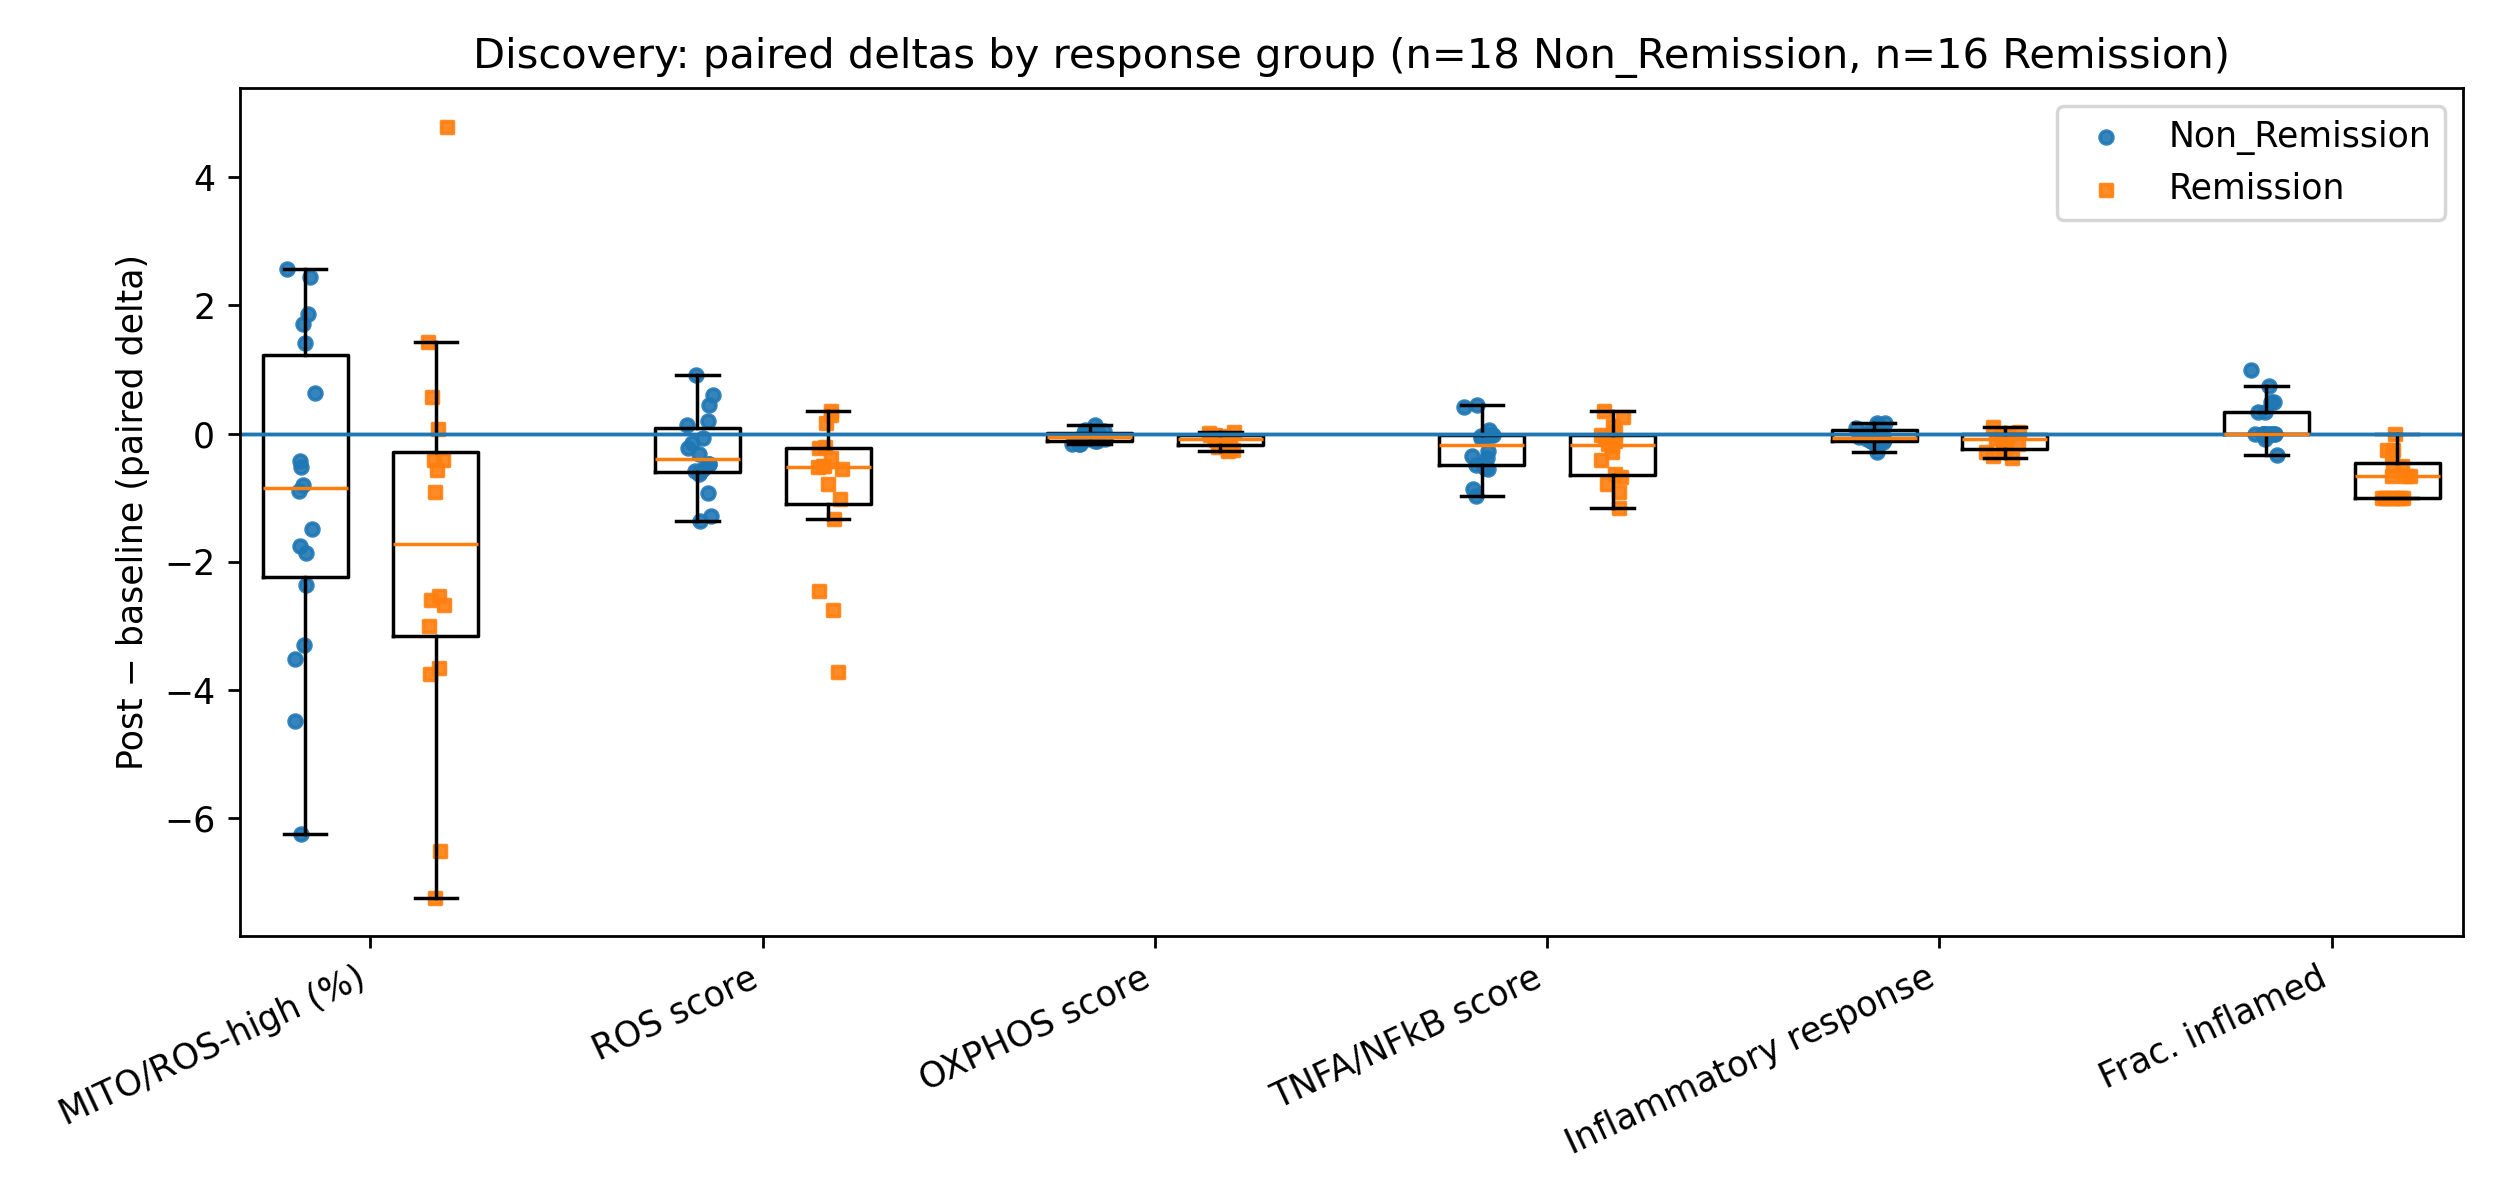
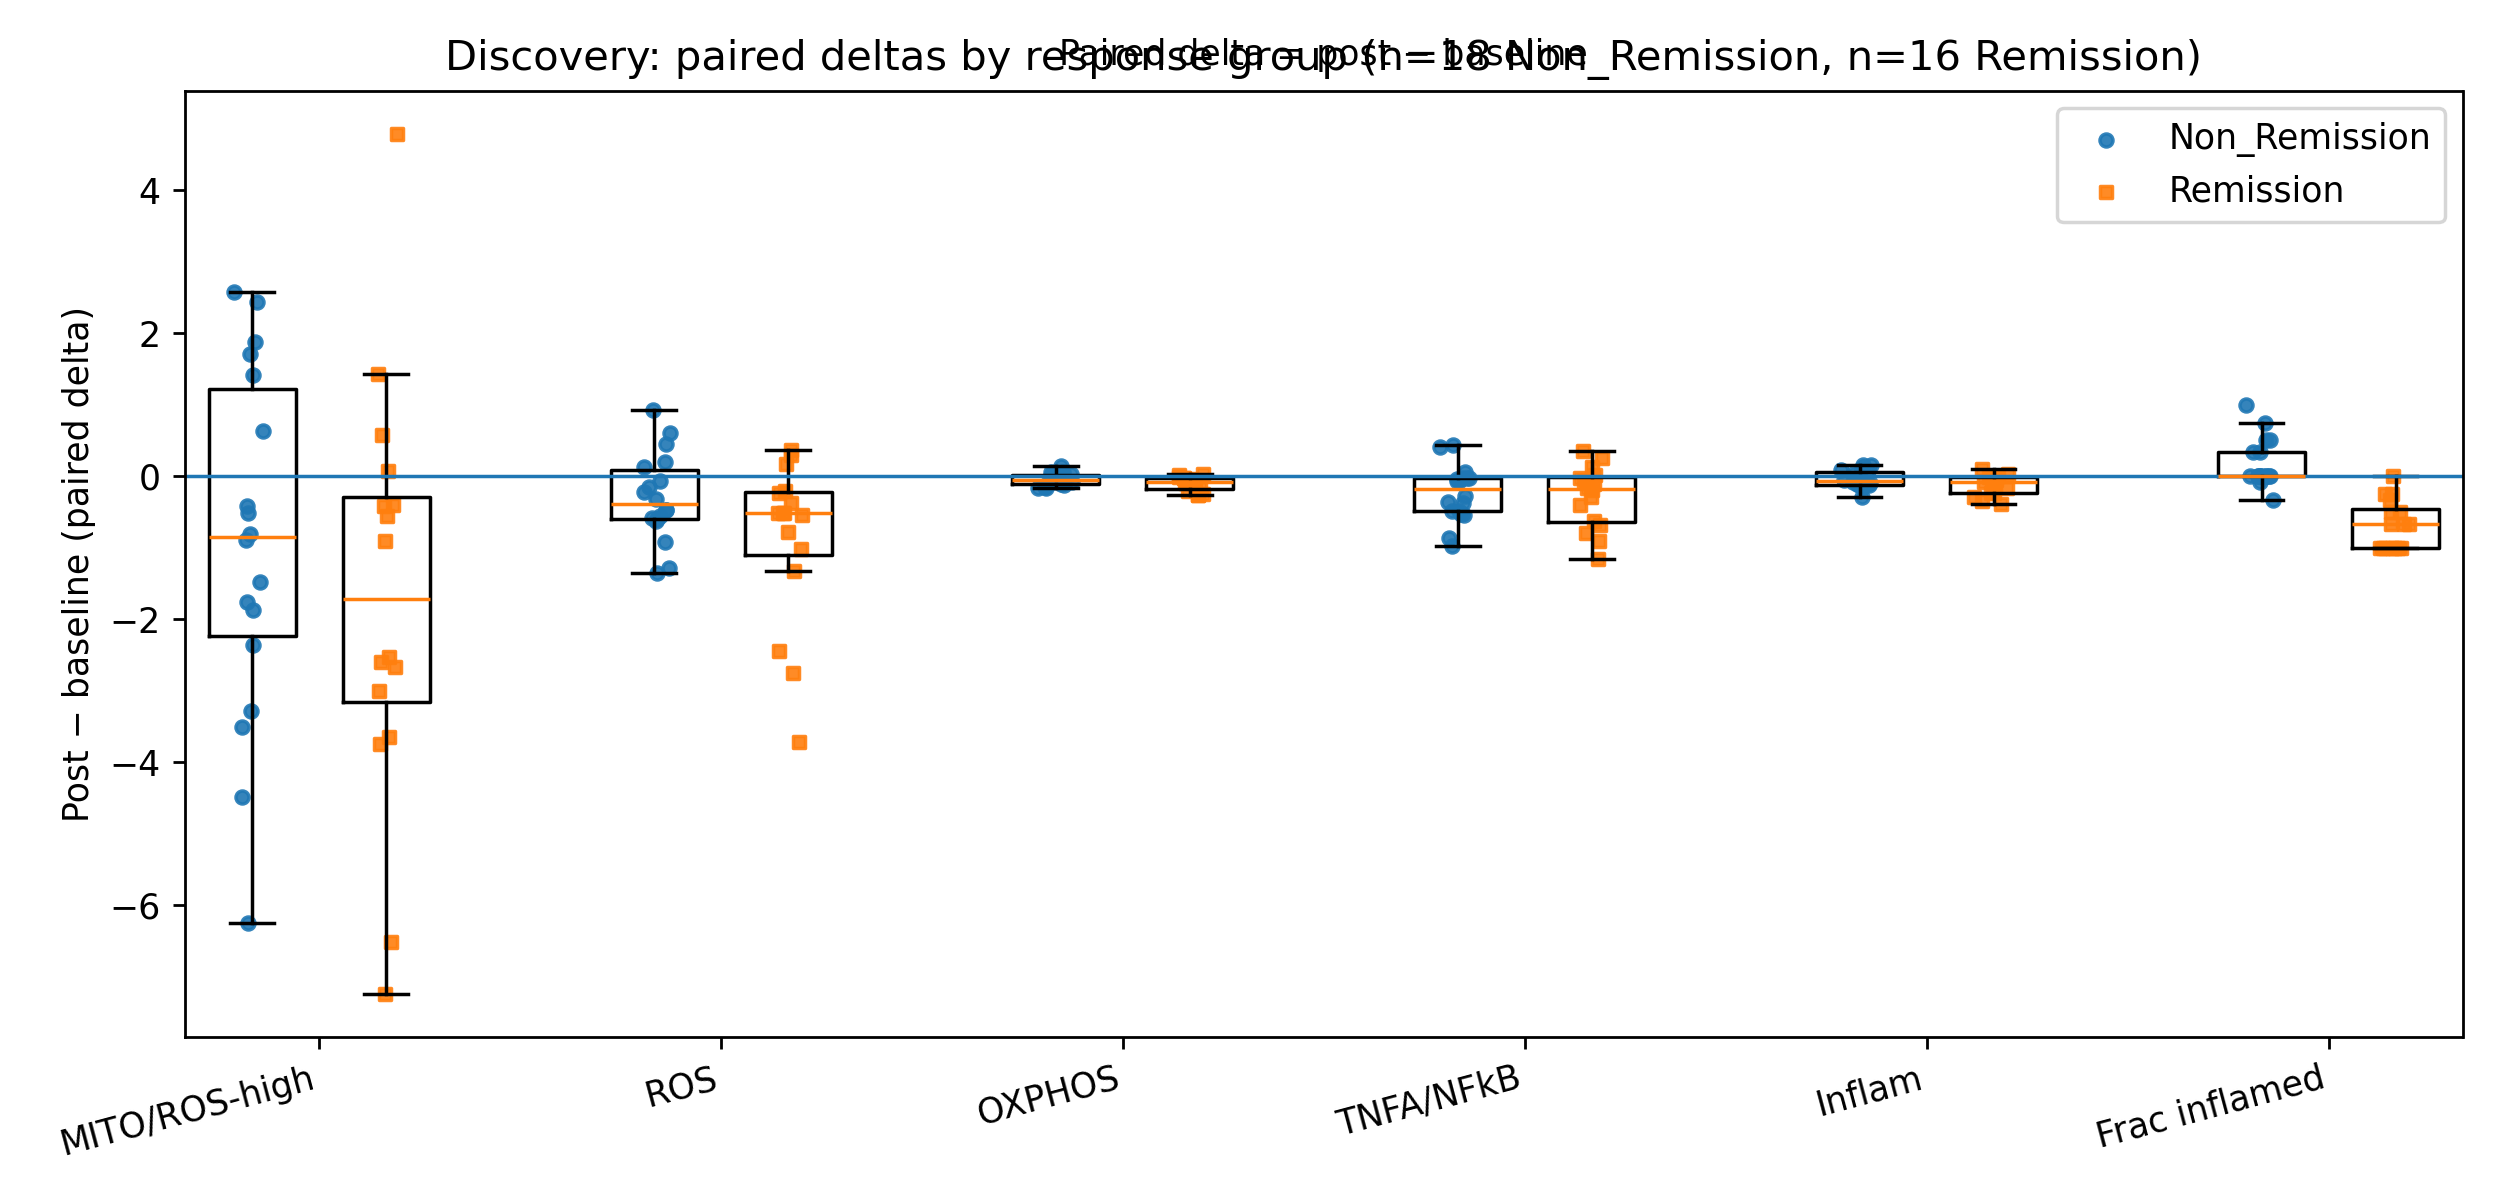
Polish response-stratified figure labels and subtitle

diff --git a/scripts/make_fig1_by_response.py b/scripts/make_fig1_by_response.py
@@ -20,14 +20,14 @@ METRICS = [
     "delta_frac_inflamed",
 ]
 
-# Pretty labels for axis
+# Short labels for axis
 LABELS = {
-    "delta_pct_high_MITO_ROS": "MITO/ROS-high (%)",
-    "delta_mean_ROS": "ROS score",
-    "delta_mean_OXPHOS": "OXPHOS score",
-    "delta_mean_TNFA": "TNFA/NFkB score",
-    "delta_mean_INFLAM": "Inflammatory response",
-    "delta_frac_inflamed": "Frac. inflamed",
+    "delta_pct_high_MITO_ROS": "MITO/ROS-high",
+    "delta_mean_ROS": "ROS",
+    "delta_mean_OXPHOS": "OXPHOS",
+    "delta_mean_TNFA": "TNFA/NFkB",
+    "delta_mean_INFLAM": "Inflam",
+    "delta_frac_inflamed": "Frac inflamed",
 }
 
 GROUPS = ["Non_Remission", "Remission"]
@@ -54,8 +54,8 @@ def main():
         data_non.append(x_non)
         data_rem.append(x_rem)
 
-    n_non = len(df.loc[df["response"] == "Non_Remission"])
-    n_rem = len(df.loc[df["response"] == "Remission"])
+    n_non = int((df["response"] == "Non_Remission").sum())
+    n_rem = int((df["response"] == "Remission").sum())
 
     # Plot
     plt.figure(figsize=(10, 4.8))
@@ -70,7 +70,7 @@ def main():
     ax.boxplot(data_non, positions=pos_non, widths=0.65, showfliers=False)
     ax.boxplot(data_rem, positions=pos_rem, widths=0.65, showfliers=False)
 
-        # Jitter points with different markers (no forced colors)
+    # Jitter points once per group (keeps to two default colors)
     rng = np.random.default_rng(0)
 
     xs_non, ys_non = [], []
@@ -92,18 +92,10 @@ def main():
     ax.axhline(0, linewidth=1)
     ax.set_ylabel("Post − baseline (paired delta)")
     ax.set_title(f"Discovery: paired deltas by response group (n={n_non} Non_Remission, n={n_rem} Remission)")
+    ax.text(0.5, 1.02, "Paired delta = post − baseline", transform=ax.transAxes, ha="center", va="bottom")
 
     ax.set_xticks(centers)
-    ax.set_xticklabels([LABELS.get(m, m.replace("delta_", "")) for m in metrics], rotation=25, ha="right")
-
-    ax.legend(loc="best")
-
-    ax.axhline(0, linewidth=1)
-    ax.set_ylabel("Post − baseline (paired delta)")
-    ax.set_title(f"Discovery: paired deltas by response group (n={n_non} Non_Remission, n={n_rem} Remission)")
-
-    ax.set_xticks(centers)
-    ax.set_xticklabels([LABELS.get(m, m.replace("delta_", "")) for m in metrics], rotation=25, ha="right")
+    ax.set_xticklabels([LABELS.get(m, m.replace("delta_", "")) for m in metrics], rotation=15, ha="right")
 
     ax.legend(loc="best")
     plt.tight_layout()
